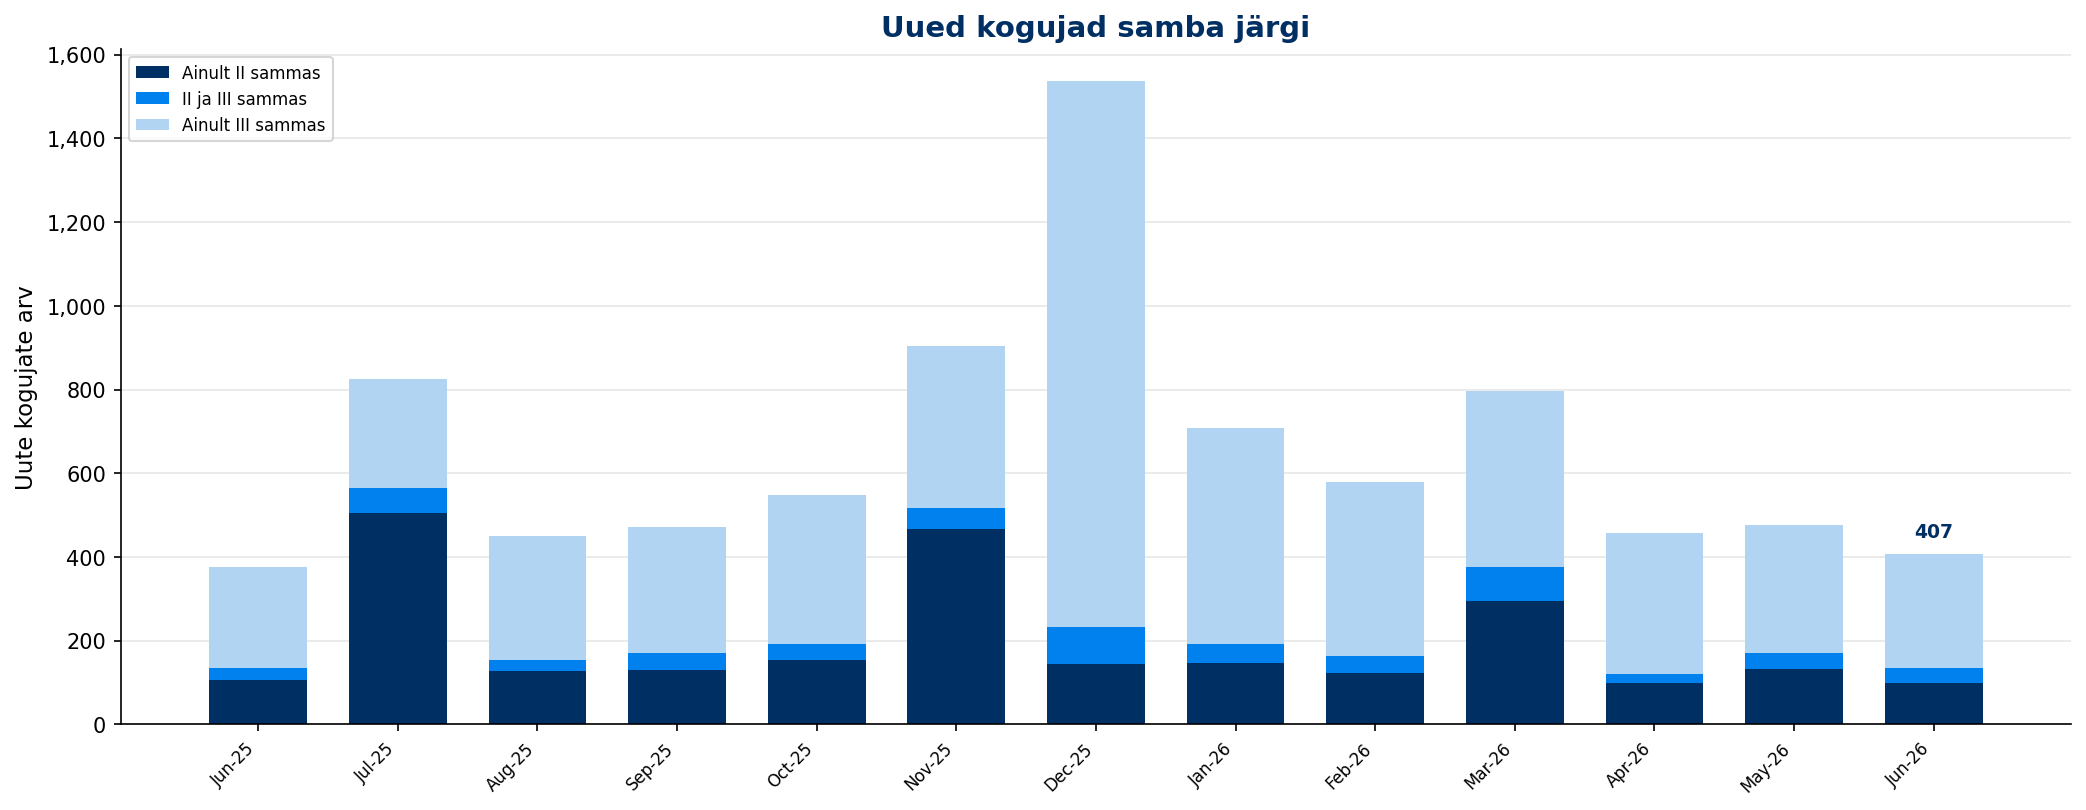
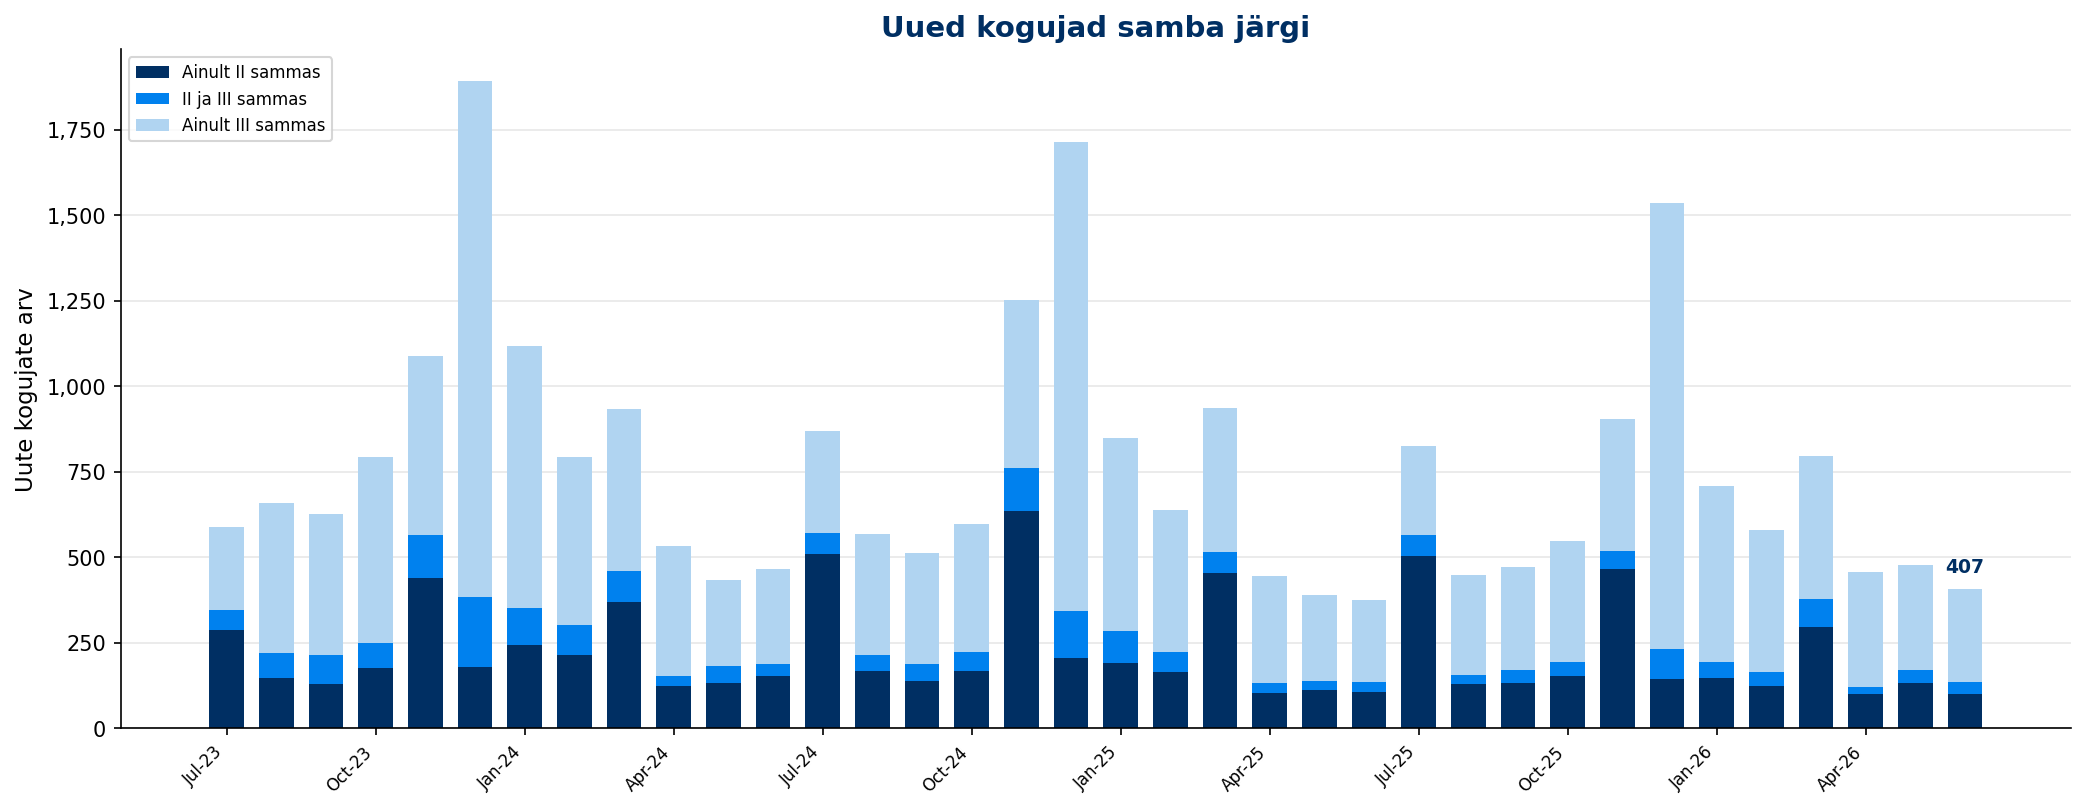
Extend new-savers charts to 3 years
Cards 1519/1520 now return 36 months, so the "uued kogujad samba järgi"
and "II sambaga liitujad allika järgi" charts extend to 3 years like the
rest. Slice both to the last CHART_WINDOW months so they align with the
2578-sourced charts. Regenerate and republish the June 2026 report.

diff --git a/reports/monthly/generate_monthly_charts.py b/reports/monthly/generate_monthly_charts.py
@@ -1260,9 +1260,10 @@ def generate_monthly_charts(year: int, month: int) -> Path:
     if savers_data:
         generate_savers_chart(savers_data, year, month, output_dir)
 
-    # New savers by pillar (cards 1519 + 1520 — kept: source split not in 2578)
-    ii_joiners = cards.get('II sambaga liitujate arv kuus', {}).get('data', [])
-    iii_joiners = cards.get('III sambaga liitujate arv kuus', {}).get('data', [])
+    # New savers by pillar (cards 1519 + 1520 — kept: source split not in 2578).
+    # Slice to the last CHART_WINDOW months so these align with the 2578 charts.
+    ii_joiners = (cards.get('II sambaga liitujate arv kuus', {}).get('data', []))[-CHART_WINDOW:]
+    iii_joiners = (cards.get('III sambaga liitujate arv kuus', {}).get('data', []))[-CHART_WINDOW:]
     if ii_joiners and iii_joiners:
         generate_new_savers_by_pillar_chart(ii_joiners, iii_joiners, year, month, output_dir)
     if ii_joiners: